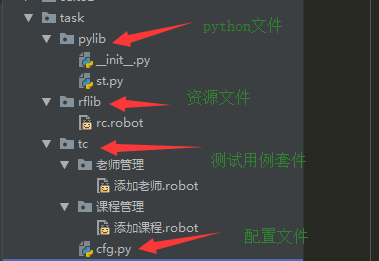
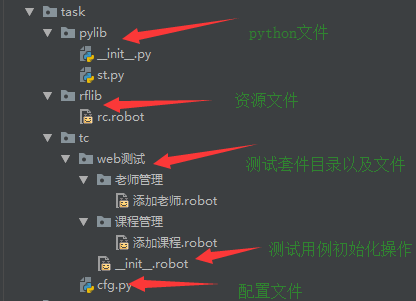
项目目录以及指定RF用例执行的方法

diff --git a/自动化测试框架/RF/8RF- DirectoryAndExecutionParameters.md b/自动化测试框架/RF/8RF- DirectoryAndExecutionParameters.md
@@ -1,4 +1,4 @@
-项目目录和执行参数
+1、项目目录和执行参数
     
     自动化项目的目录一般目录结构
     一般可接触到的项目文件种类
@@ -12,3 +12,54 @@
 
     2、以 robot --pythonpath . tc 命令执行tc用例下面所有的用例
     3、builtin库里面的Run Keywords方法实现初始化
+    
+2、RF用例的执行
+
+    1、指定生成测试报告的命令    
+    d:\tmp\rf\task>robot --pythonpath . --name 回归测试  tc
+    
+    2、可以指定多个要执行的测试套件文件、目录甚至用通配符来表示多个测试，用空格隔开
+    d:\tmp\rf\task>robot my_test.robot your-tests.robot
+    
+    3、根据名称选择测试用例
+    可以通过 --test --suite来指定执行哪些用例或者套件，且可以支持用通配符的方式(注意测试源一定要放在最后，如下方的tc)
+        
+        --test 添加老师                 #执行名为添加老师的用例
+        d:\tmp\rf\task>robot --pythonpath . --name 回归测试 --test 添加老师 tc
+        
+        --test mytest --test yourtest   #执行名为mytest和yourtest的用例
+        --test example*                 #执行名字以example开头的用例
+        
+        --suite 课程管理                 #执行名为课程管理的套件
+        d:\tmp\rf\task>robot --pythonpath . --name 回归测试 --suite 课程管理 tc
+        
+    4、在写用例的时候可写入编号，方便导出测试例如有如下用例：
+        用例管理1 - tc00001
+            log to console tc000001
+        用例管理2 - tc00002
+            log to console tc000002
+        用例管理3 - tc00003
+            log to console tc000003
+        用例管理4 - tc00004
+            log to console tc000004
+        用例管理5 - tc00005
+            log to console tc000005
+            
+        导出用例编号执行(*表示无论用例前面是什么只要对应后面编号即可，t1.robot为放这些用例的文件名即测试源)
+        robot --pythonpath .  --test*tc00001 --test*tc00002 --test*tc00003 --test*tc00004 --test*tc00005 t1.robot
+        
+        如果用例太多也不适合上述方法，所以可以放到参数文件当中，比如创建一个args.txt,内容如下：
+            --pythonpath .
+            --name 回归测试
+            --test *tc00001
+            --test *tc00004
+            --test *tc00005
+            t1.robot
+            
+        再用命令执行：   robot -A args.txt
+        
+    关键字之间有依赖关系的，最好做在类当中(即公用的部分比如登录操作)，如果只是定义在函数中，则只能作为局部变量
+
+    
+    
+        
